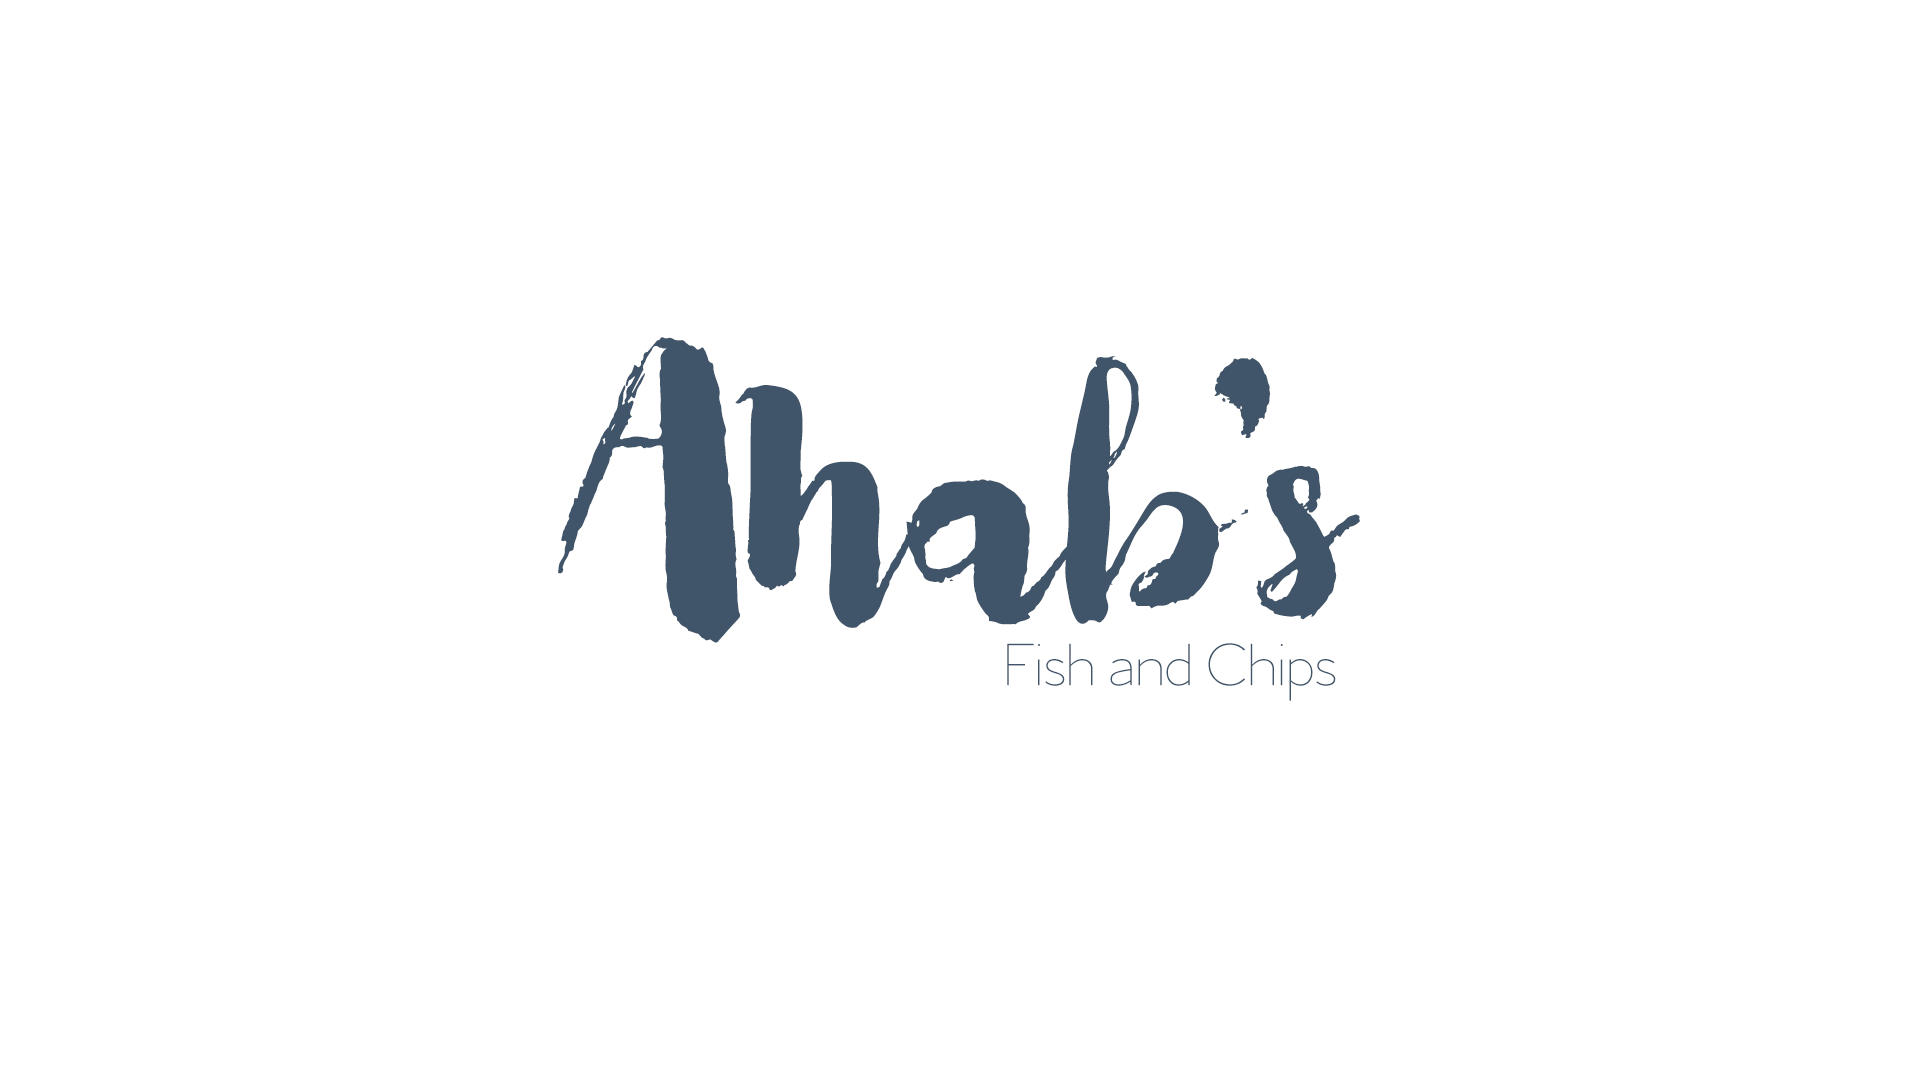
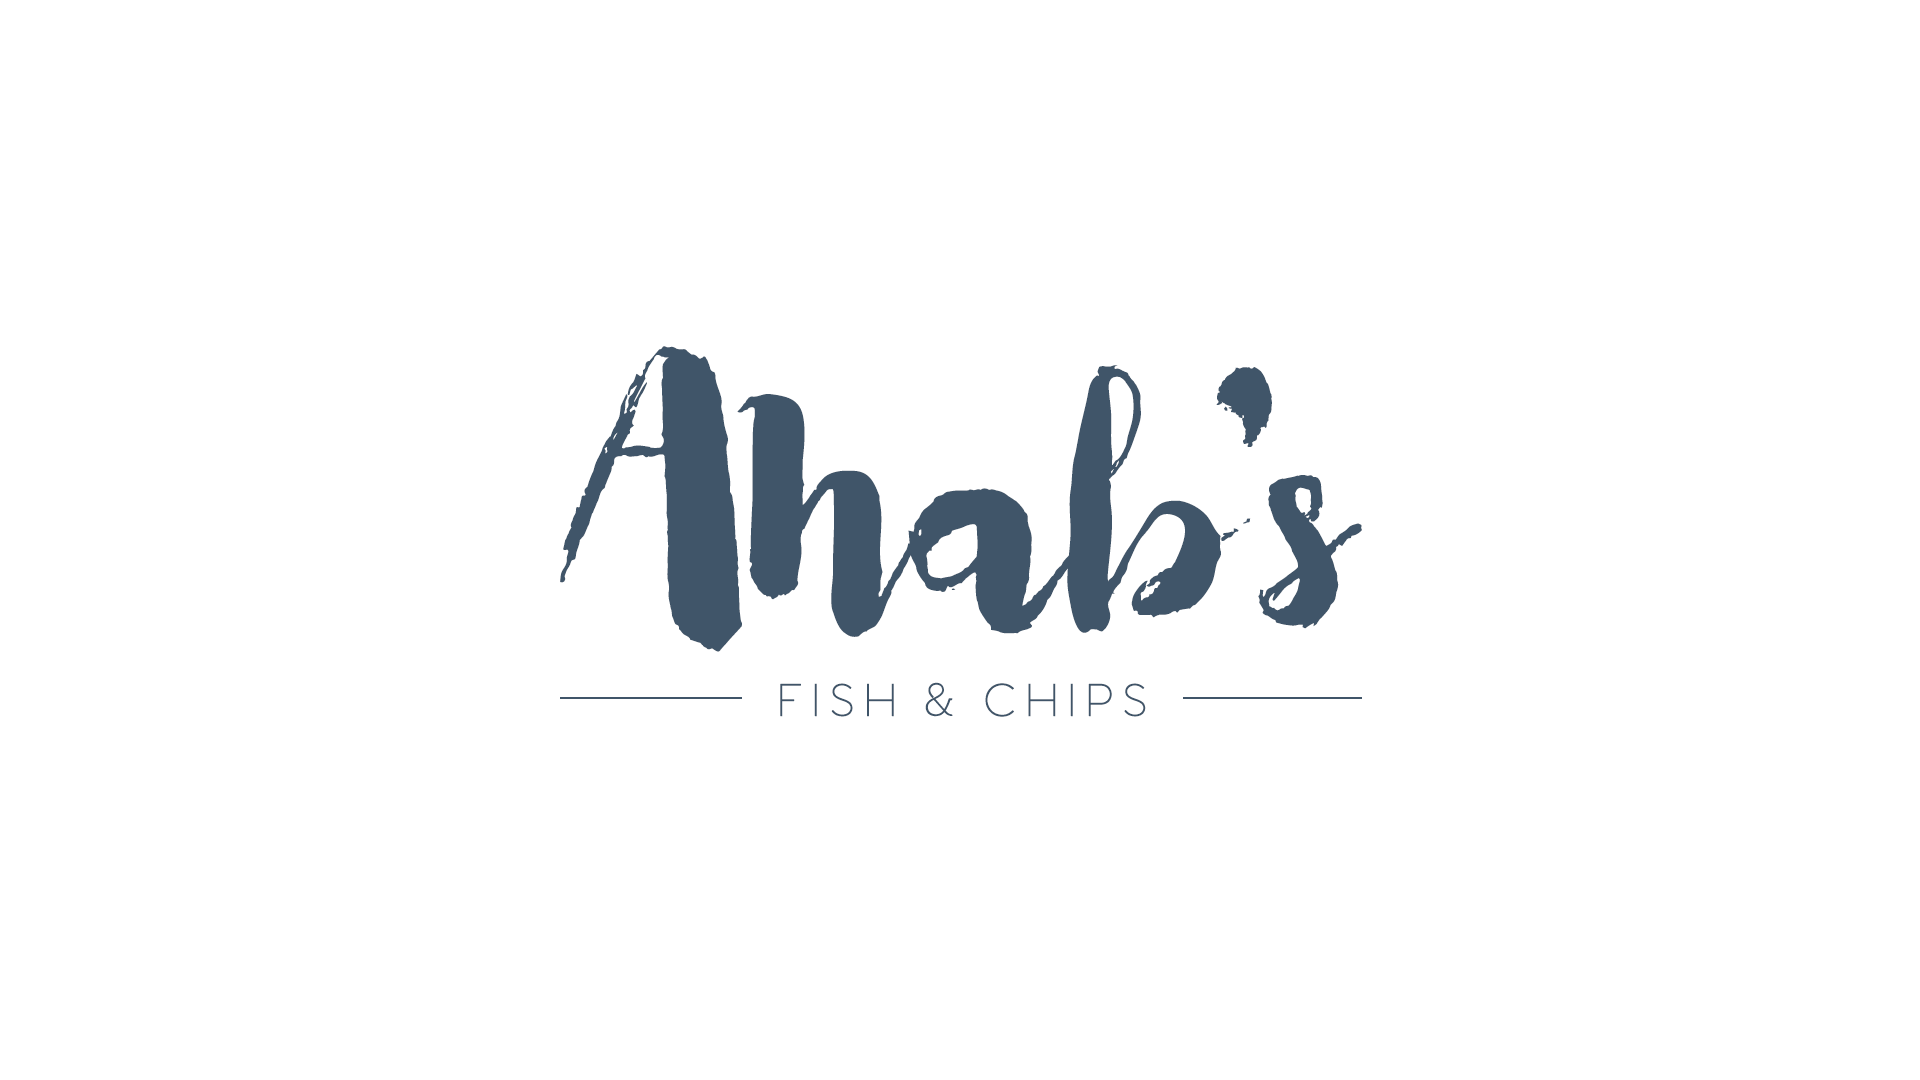
Updated Ahab's

diff --git a/index.html b/index.html
@@ -309,6 +309,15 @@
 										</div>
 									</div>
 								</a>
+								<a class="inline cboxElement" href="projects/girl-study.html">
+									<div class="thumb-container">
+										<img src="images/gallery/thumbs/study.jpg">
+										<div class="overlay"></div>
+										<div class="overlay-caption">
+										<div class="thumb-caption">Personal Work</div>
+										</div>
+									</div>
+								</a>		
 								<a class="inline cboxElement" href="projects/cyanide.html">
 									<div class="thumb-container">
 									<div class="video-thumb">
@@ -320,16 +329,7 @@
 										<div class="thumb-caption">Cyanide &amp; Happiness</div>
 										</div>
 									</div>
-								</a>
-								<a class="inline cboxElement" href="projects/girl-study.html">
-									<div class="thumb-container">
-										<img src="images/gallery/thumbs/study.jpg">
-										<div class="overlay"></div>
-										<div class="overlay-caption">
-										<div class="thumb-caption">Personal Work</div>
-										</div>
-									</div>
-								</a>								
+								</a>			
 								<a class="inline cboxElement" href="projects/himyim-bg.html">
 									<div class="thumb-container">
 										<img src="images/gallery/thumbs/himyim.jpg">

diff --git a/projects/ahabs.html b/projects/ahabs.html
@@ -140,6 +140,28 @@
 							</div>
 						</div>
 						
+						<div class="img-wrapper">
+							<img class="projects-img-irregular" src="../images/gallery/ahabs4.jpg" alt="Jake Ransom Ahab's branding">
+							<div class="enlarge-wrapper">
+								<div class="enlarge-button">
+									<a class="btn" href="../images/gallery/ahabs4.jpg">
+										<i class="fas fa-expand"></i>
+									</a>
+								</div>
+							</div>
+						</div>
+						
+						<div class="img-wrapper">
+							<img class="projects-img-irregular" src="../images/gallery/ahabs5.jpg" alt="Jake Ransom Ahab's branding">
+							<div class="enlarge-wrapper">
+								<div class="enlarge-button">
+									<a class="btn" href="../images/gallery/ahabs5.jpg">
+										<i class="fas fa-expand"></i>
+									</a>
+								</div>
+							</div>
+						</div>
+						
 
 					</div>
 				</div>
